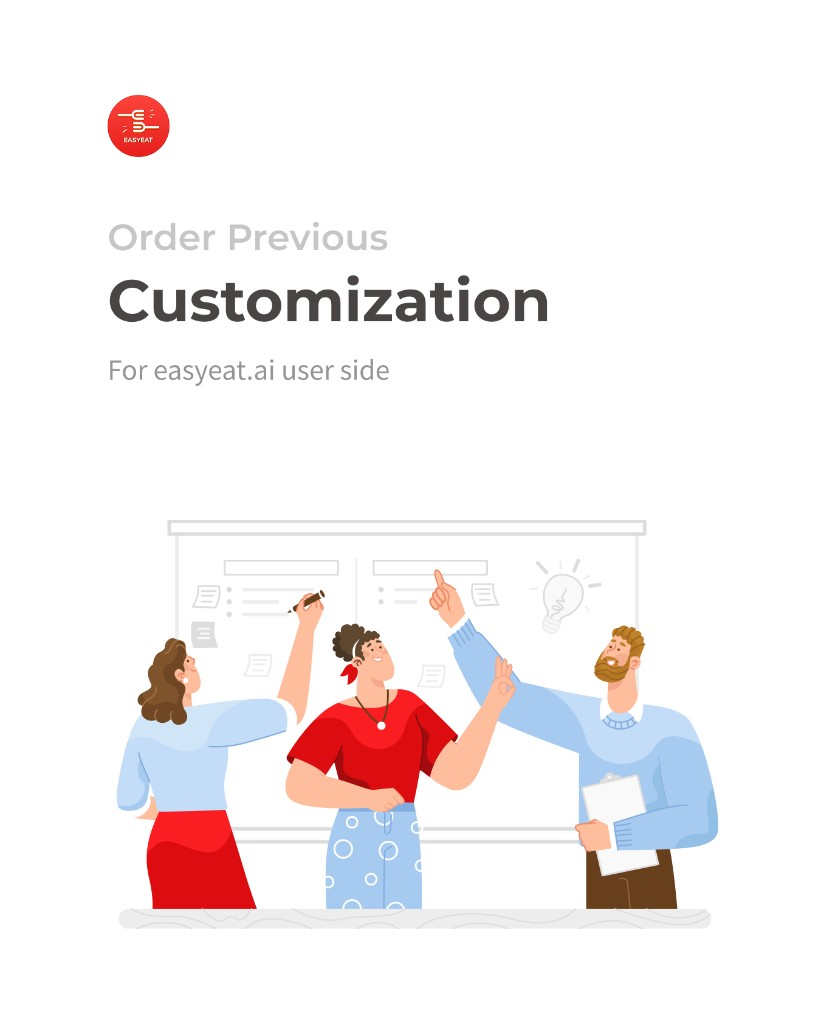
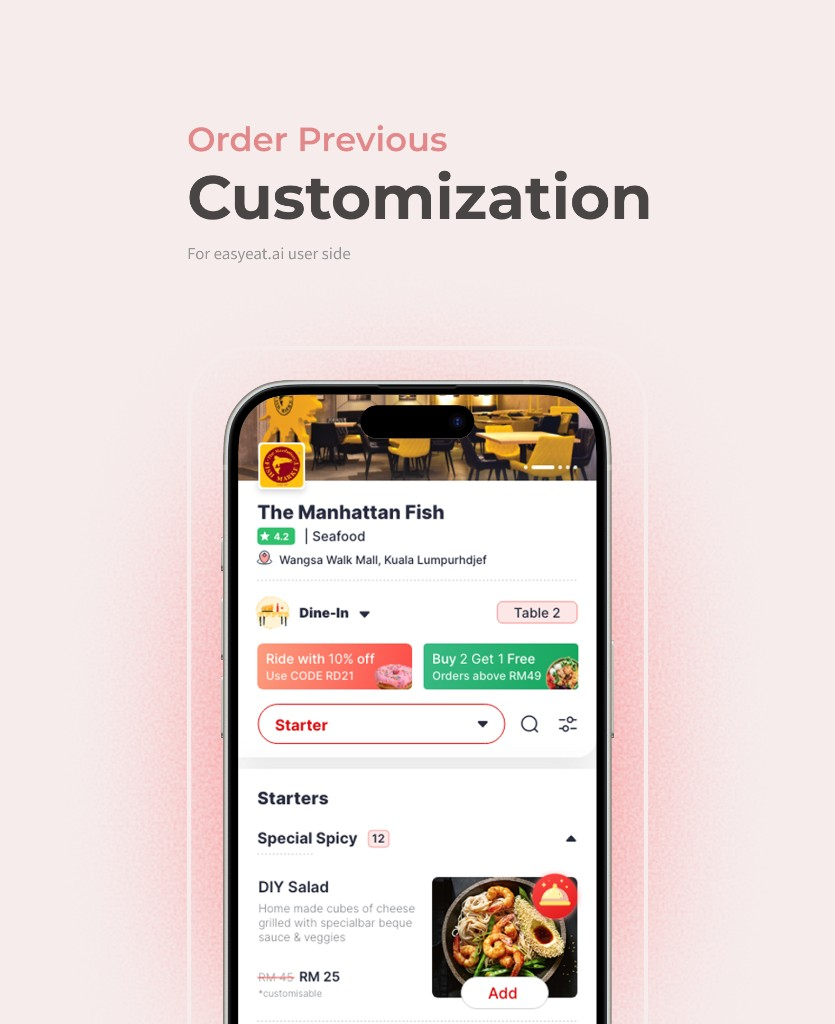
Update selected work visuals with final case-study mockups.
Replace the landing previews for Deal Room, Contextual Chat Assistant, and EasyEat with polished screenshots using consistent full-width presentation.

diff --git a/index.html b/index.html
@@ -1242,27 +1242,15 @@
         </div>
       </div>
       <div class="project-visual">
-        <div class="mini-phone">
-          <div class="mini-screen">
-            <div class="mini-header">Company Profile</div>
-            <div class="mini-input">Target: Series A · Fintech</div>
-            <div class="mini-input">Investors Following: 12</div>
-            <div class="mini-btn">Create Deal Room</div>
-            <div style="height:0.45rem"></div>
-            <div class="mini-header">Deal Room Status</div>
-            <div class="mini-step">
-              <div class="mini-step-dot dot-done">✓</div>
-              <div class="mini-step-text">Setup Complete</div>
-            </div>
-            <div class="mini-step">
-              <div class="mini-step-dot dot-active">2</div>
-              <div class="mini-step-text" style="color:#111;font-weight:500">NDA Gate Active</div>
-            </div>
-            <div class="mini-step">
-              <div class="mini-step-dot dot-idle"></div>
-              <div class="mini-step-text">Investor Commitments</div>
-            </div>
-          </div>
+        <div class="work-inline-video-wrap work-inline-video-wrap--flat">
+          <img
+            src="./assets/deal-room-engagement-showcase.png"
+            alt="Systematic Deal Room engagement dashboard with investor tracking and NDA status"
+            width="1024"
+            height="759"
+            loading="lazy"
+            decoding="async"
+          >
         </div>
       </div>
     </div>
@@ -1301,10 +1289,10 @@
       <div class="project-visual">
         <div class="work-inline-video-wrap work-inline-video-wrap--flat">
           <img
-            src="./assets/systematic-agent-chat.png"
-            alt="Systematic Agent chat interface with investor discovery prompts"
-            width="684"
-            height="545"
+            src="./assets/contextual-chat-assistant-showcase.png"
+            alt="Contextual chat assistant interface for investor company discovery"
+            width="1024"
+            height="759"
             loading="lazy"
             decoding="async"
           >
